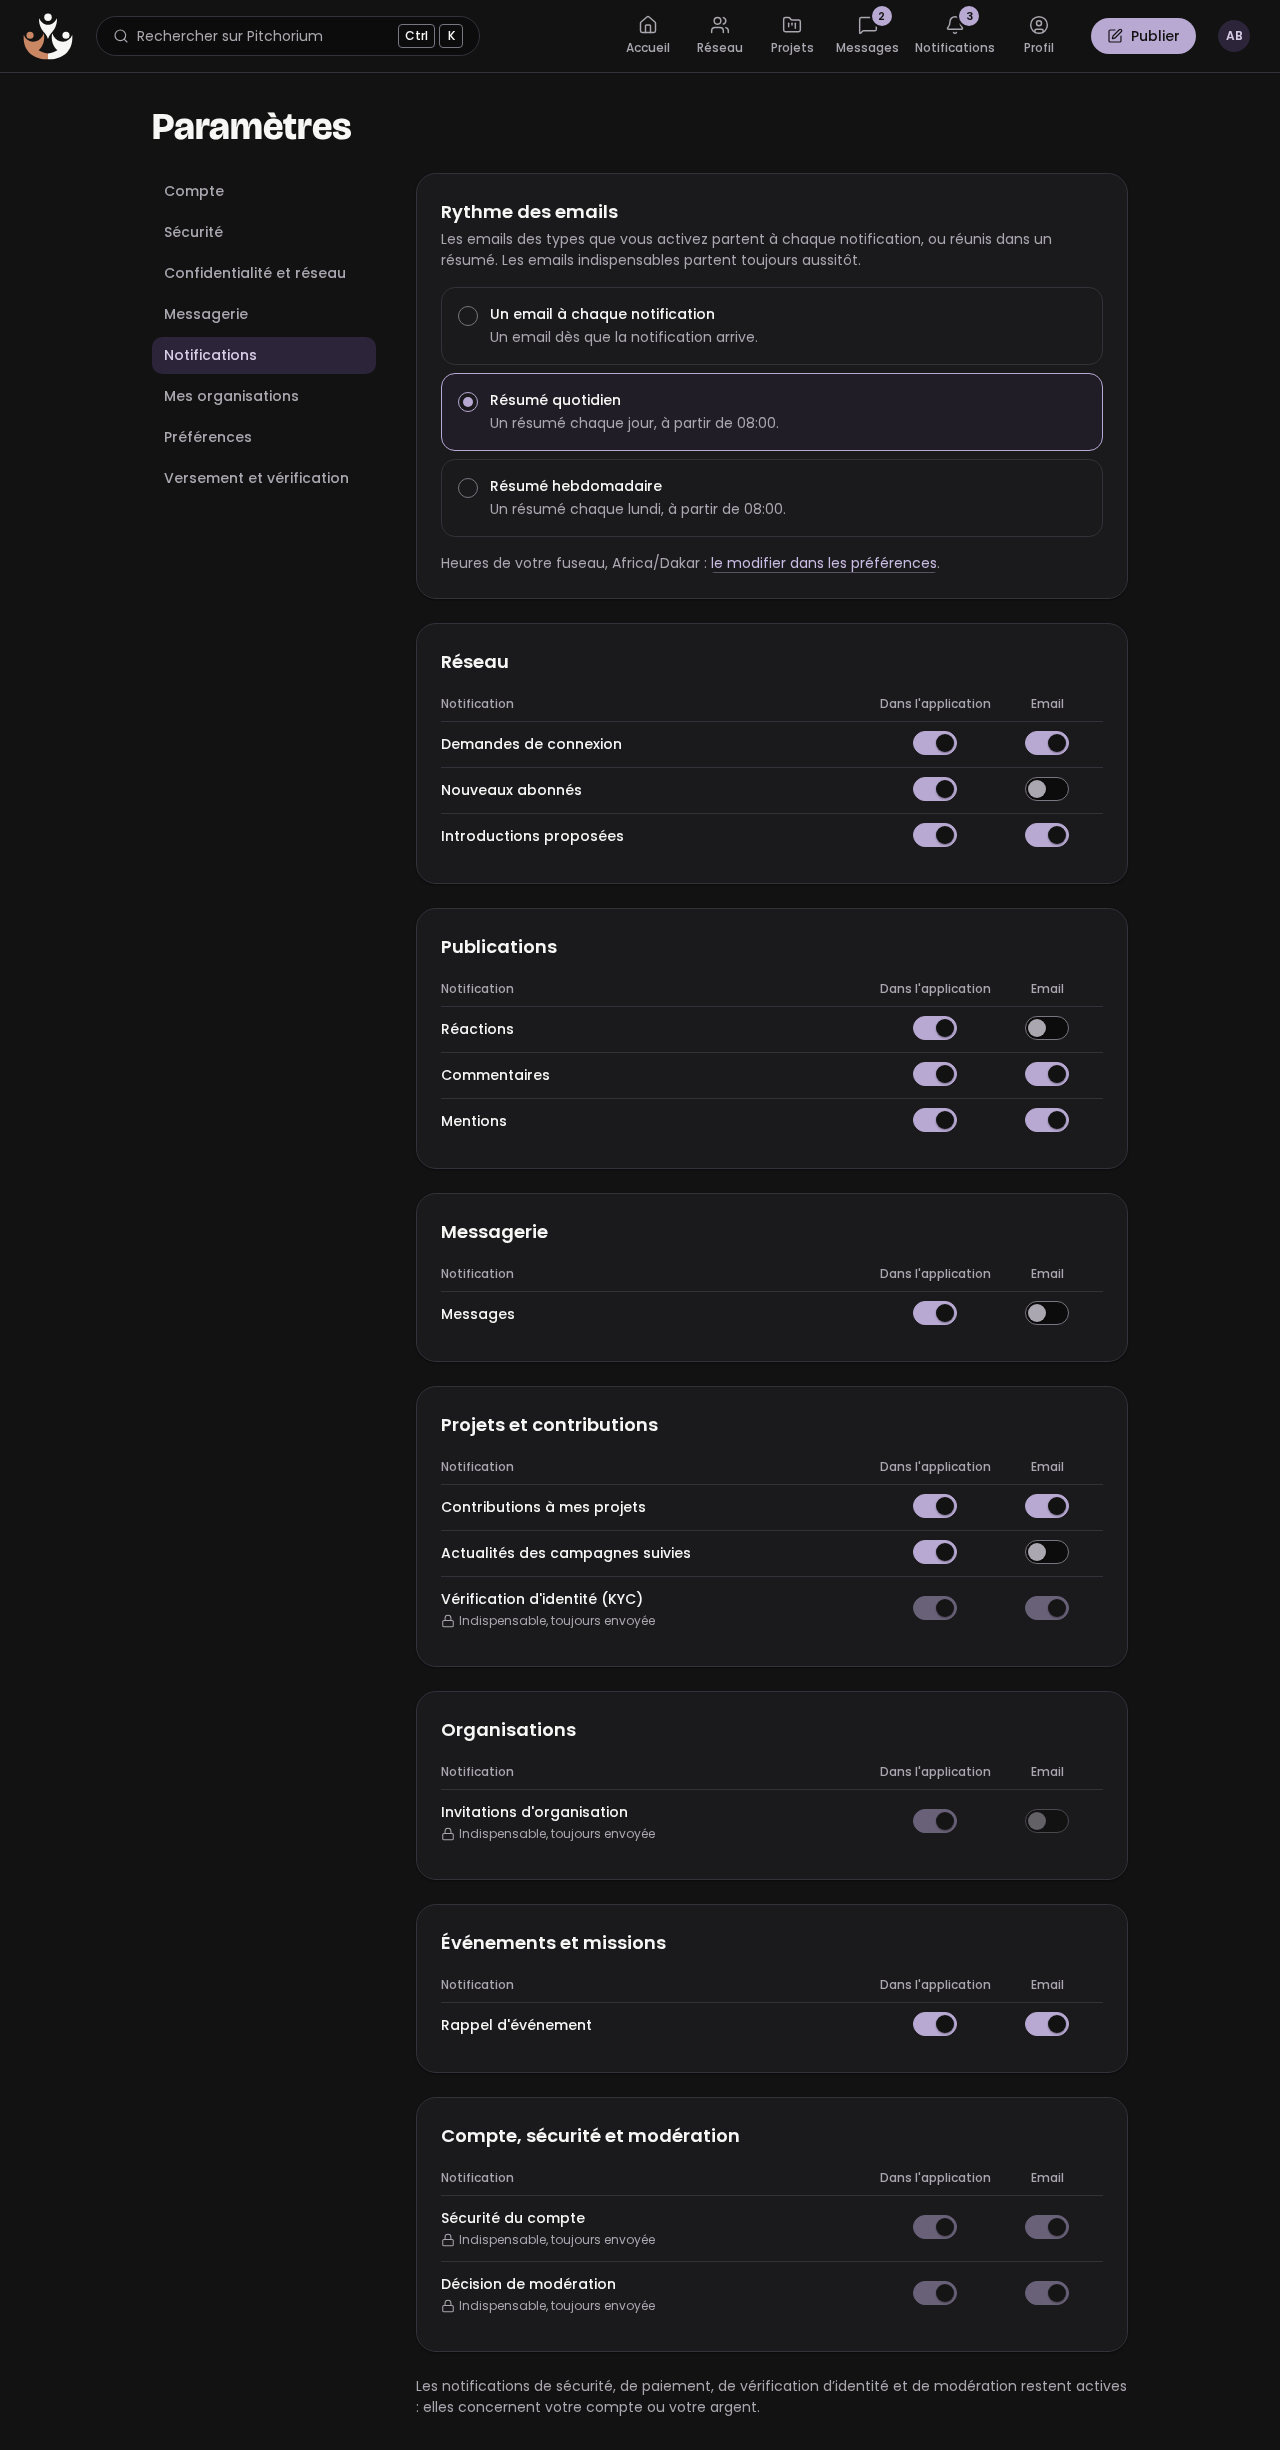
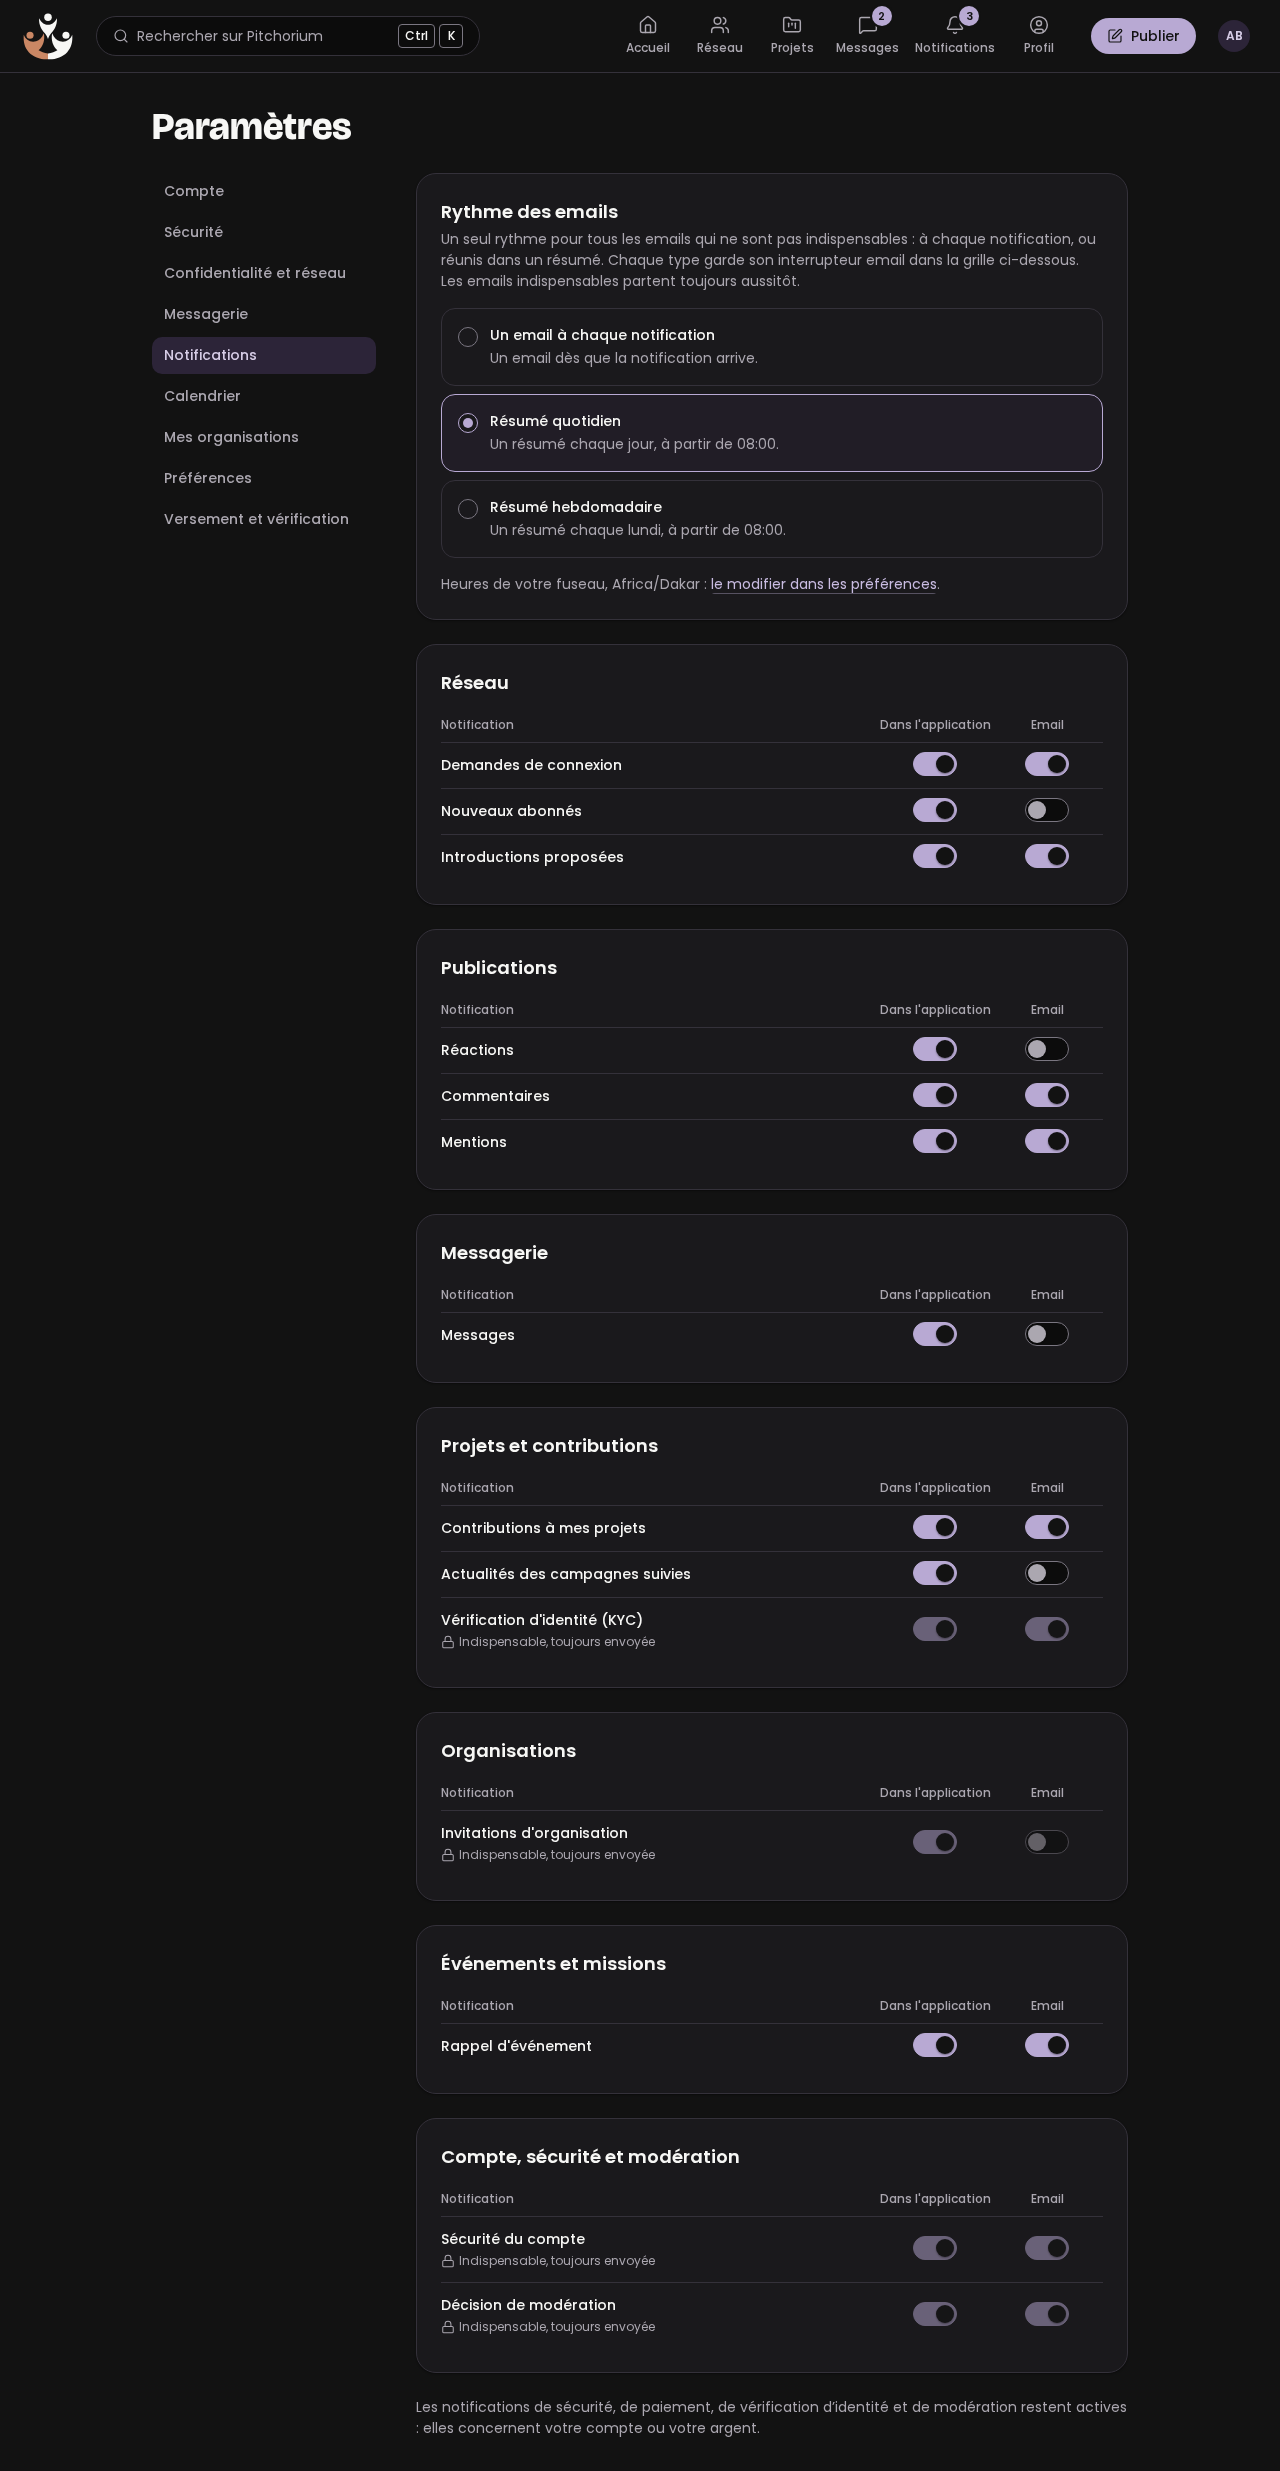
docs(design): capture search, discovery, events, missions and invitations for the review
New screens in both themes and sizes, reviewed with the checklist; the settings
show their calendar section, the management of a project its new tab.

diff --git a/apps/web/e2e/review/discovery.review.ts b/apps/web/e2e/review/discovery.review.ts
@@ -1,0 +1,116 @@
+import { type BrowserContext, expect, type Page, test } from '@playwright/test';
+import { API_ORIGIN, DEMO_PASSWORD } from '../support/fixtures';
+import { layoutProblems } from './layout-guard';
+
+/**
+ * Screens of the search, Discover, the events, the missions and the pending invitations (PROMPT
+ * FRONT 7), on the build of the end-to-end tests served with the stub api
+ * (e2e/support/stub-discovery.mjs, fixed dates far ahead), in both themes and both sizes
+ * (docs/design/review).
+ */
+const ORIGIN = 'http://localhost:3201';
+const MEMBER = 'aissatou.ba@demo.pitchorium.test';
+const VIEWPORTS = [
+  { name: 'desktop', width: 1280, height: 800 },
+  { name: 'mobile', width: 390, height: 844 },
+];
+
+interface Screen {
+  id: string;
+  path: string;
+  visitor?: boolean;
+  /** Brings the page to the state to capture. */
+  act?: (page: Page) => Promise<void>;
+  /** Captures the viewport only (an open dialog over the page). */
+  viewportOnly?: boolean;
+}
+
+const SCREENS: Screen[] = [
+  {
+    id: 'command-palette',
+    path: '/fr/feed',
+    viewportOnly: true,
+    act: async (page) => {
+      await page.keyboard.press('Control+k');
+      const palette = page.getByRole('dialog', { name: 'Recherche globale' });
+      await expect(palette.getByRole('combobox')).toBeFocused();
+      await page.keyboard.type('sol');
+      await expect(palette.getByRole('option', { name: /^Pompes solaires/ })).toBeVisible();
+      await expect(palette.getByRole('listbox')).toHaveAttribute('aria-busy', 'false');
+    },
+  },
+  { id: 'search-results', path: '/fr/search?q=solaire' },
+  { id: 'search-empty', path: '/fr/search?q=zzzz' },
+  { id: 'discover-visitor', path: '/fr/discover', visitor: true },
+  { id: 'discover-member', path: '/fr/discover' },
+  { id: 'events-list', path: '/fr/events' },
+  { id: 'event-full', path: '/fr/events/atelier-levee-de-fonds' },
+  { id: 'event-canceled', path: '/fr/events/rencontre-assureurs-kano' },
+  { id: 'event-create', path: '/fr/events/new' },
+  {
+    id: 'settings-calendar',
+    path: '/fr/settings/calendar',
+    act: async (page) => {
+      await page.getByRole('button', { name: 'Créer mon adresse de calendrier' }).click();
+      await expect(page.getByText('Adresse secrète')).toBeVisible();
+    },
+  },
+  { id: 'missions-list', path: '/fr/missions' },
+  { id: 'mission-page', path: '/fr/missions/0192f4a0-7000-7000-8000-000000000301' },
+  {
+    id: 'mission-create-refused',
+    path: '/fr/missions/new?direction=offer',
+    act: async (page) => {
+      await page.getByRole('textbox', { name: 'Titre' }).fill('Mentorat marketing');
+      await page
+        .getByRole('textbox', { name: 'Description' })
+        .fill('Recrutement en CDI avec salaire attractif.');
+      await page.getByRole('textbox', { name: 'Champ d’expertise' }).fill('Marketing');
+      await page.getByRole('textbox', { name: 'Heures estimées' }).fill('4');
+      await page.getByRole('button', { name: 'Publier la mission' }).click();
+      await expect(
+        page.getByText(/Une mission est bénévole : retirez le vocabulaire/).first(),
+      ).toBeVisible();
+    },
+  },
+  { id: 'invitations-pending', path: '/fr/network/invitations' },
+];
+
+async function opened(context: BrowserContext, visitor: boolean) {
+  const tab = await context.newPage();
+  if (!visitor) {
+    const response = await tab.request.post(`${API_ORIGIN}/v1/auth/sign-in/email`, {
+      data: { email: MEMBER, password: DEMO_PASSWORD },
+    });
+    expect(response.ok()).toBe(true);
+  }
+  return tab;
+}
+
+for (const screen of SCREENS) {
+  for (const viewport of VIEWPORTS) {
+    for (const theme of ['light', 'dark'] as const) {
+      test(`${screen.id} ${viewport.name} ${theme}`, async ({ browser }) => {
+        const context = await browser.newContext({
+          viewport: { width: viewport.width, height: viewport.height },
+          colorScheme: theme,
+          reducedMotion: 'reduce',
+          locale: 'fr-FR',
+        });
+        const tab = await opened(context, screen.visitor ?? false);
+        await tab.goto(`${ORIGIN}${screen.path}`);
+        await tab.evaluate(() => document.fonts.ready);
+        await tab.waitForLoadState('networkidle');
+        await screen.act?.(tab);
+        await expect(tab.locator('main [aria-busy="true"]')).toHaveCount(0);
+        await expect(tab.locator('main [data-loading]')).toHaveCount(0);
+        expect(await layoutProblems(tab, 'body')).toEqual([]);
+        await expect(tab).toHaveScreenshot(`${screen.id}-${viewport.name}-${theme}.png`, {
+          animations: 'disabled',
+          fullPage: !screen.viewportOnly,
+        });
+        await context.close();
+      });
+    }
+  }
+}
